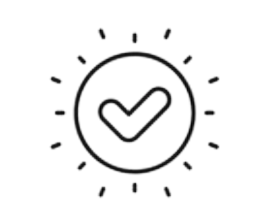
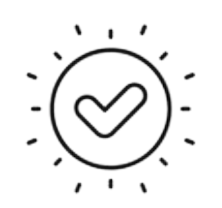
adding style to homepage

diff --git a/src/components/homePage.js b/src/components/homePage.js
@@ -36,7 +36,7 @@ function HomePage() {
                 </p>
                 <div class="row g-4 mb-4">
                   <div class="col-sm-6">
-                  <img className="ok" width="30%" src={ok} alt="satisfaction" />
+                  <img className="ok" width="26%" src={ok} alt="satisfaction" />
                     <div class="d-flex align-items-center border-start border-5 border-primary px-3">
                       <h1
                         class="flex-shrink-0 display-5 text-primary mb-0"
